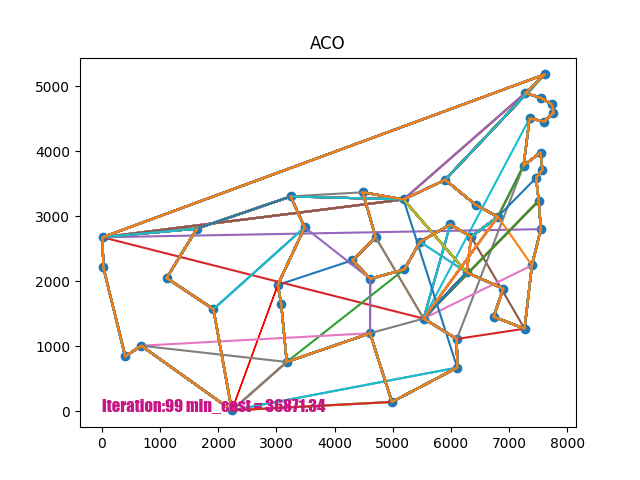
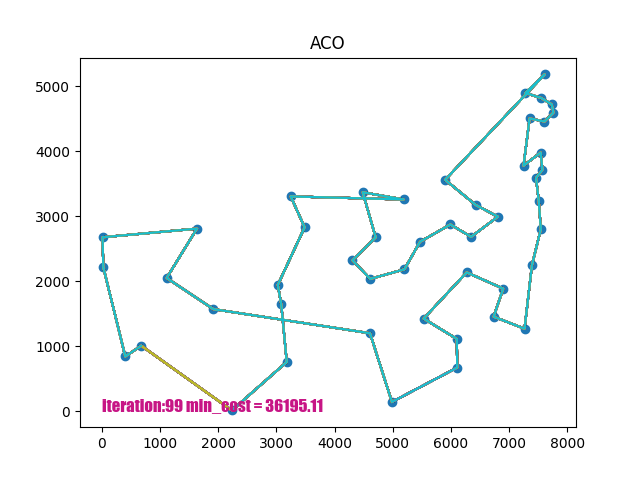
1

diff --git a/ACO.py b/ACO.py
@@ -12,33 +12,33 @@ class ACO(object):
         self.rho = rho
         self.beta = beta
         self.alpha = alpha
-        self.ant_count = ant_count  # x = 10
+        self.ant_count = ant_count
         self.generations = generations
         self.update_strategy = strategy
-        self.points = points  # n = 30
+        self.points = points
         self.distance = distance 
         self.rank = len(distance)   
         self.eta = [[0 if i == j else 1 / distance[i][j] for j in range(self.rank)] for i in
                     range(self.rank)]
 
         self.pheromone_content = [[1 for _ in range(self.rank)] for _ in range(self.rank)]    
-        # for i in range(self.rank):
-        #     self.pheromone_content[i][i]=0
+
+
 
     def initialization(self):
-        # memory vector is used to record the total path of each ant
+
         self.memory_vector = []
         for _ in range(self.ant_count):
-            # random initialize each ant first
+
             self.memory_vector.append([init_pos(self.rank)])
         
 
     def roulette(self,id,pos):
-        # classical roulette method 
+
         possibility = []
         for i in range(self.rank):
             if i in self.memory_vector[id]:
-                # if the ant has been to the point, pass it
+                # if the ant has been to the point, ignore it
                 possibility.append(0)
             else:
                 possibility.append(self.pheromone_content[pos][i]**self.alpha*(self.eta[pos][i]**self.beta))
@@ -47,8 +47,7 @@ class ACO(object):
         return next_pos
 
     def update_pheromone_delta(self,ant_path):
-        # we must update the pheromone content in the same time, instead of one by one, otherwise it may 
-        # affect the possibility of other ants
+
         if self.update_strategy == 0:
             for i in range(self.ant_count):
                 self.pheromone_content[ant_path[i][0]][ant_path[i][1]]+=self.Q
@@ -64,7 +63,7 @@ class ACO(object):
                     self.pheromone_content[self.memory_vector[i][-1]][self.memory_vector[i][0]]+=self.Q/self.distance[self.memory_vector[i][0]][self.memory_vector[i][-1]]
                     self.pheromone_content[self.memory_vector[i][0]][self.memory_vector[i][-1]]+=self.Q/self.distance[self.memory_vector[i][0]][self.memory_vector[i][-1]]
         elif self.update_strategy == 2:
-            # finish one cycle
+
             if len(self.memory_vector[0]) == self.rank:
                 total_cost = []
                 for i in range(self.ant_count):
@@ -81,7 +80,7 @@ class ACO(object):
                     self.pheromone_content[self.memory_vector[i][0]][self.memory_vector[i][-1]]+=delta
                     self.pheromone_content[self.memory_vector[i][-1]][self.memory_vector[i][0]]+=delta
             else:
-                # have not finished one cycle
+
                 pass
         else:
             raise KeyError
@@ -100,7 +99,7 @@ class ACO(object):
             print(f'-----start iteration {iteration+1} of ACO-----')
             self.initialization()
             for steps in range(self.rank-1):
-                # in a new iteration, each ant choose a path, from pos to next_pos
+
                 ant_path = []
                 for i in range(self.ant_count):
                     pos = self.memory_vector[i][-1]
@@ -112,7 +111,7 @@ class ACO(object):
             plt.cla()
             plt.title("ACO")
             cost,path = draw_picture(self.points,self.distance,self.memory_vector,iteration)
-            #print(f'best path cost = {best_cost}')
+
             plt.pause(0.01)
 
         save_best_result(cost,path,self.points)

diff --git a/utils.py b/utils.py
@@ -33,7 +33,6 @@ def calculate_distance(points):
     return distance
     
 def get_next_pos(possibility):
-    #print(possibility)
     n = sum(possibility)
     
     for i in range(len(possibility)):
@@ -105,7 +104,7 @@ def save_best_result(cost,path,points):
         y2 = points[path[i]][1]
         plt.arrow(x1, y1, x2 - x1, y2 - y1, width = 0.05,color='r', length_includes_head=True)
     plt.arrow(x2,y2,points[path[0]][0]-x2,points[path[0]][1]-y2, width = 0.05,color='r', length_includes_head=True)
-    #plt.text(0, 0, f'min_cost = {cost}')
+
     plt.savefig("result.png")
     plt.close()
 

diff --git a/main.py b/main.py
@@ -12,7 +12,7 @@ def default_argument_parser():
     parser.add_argument('--generation', default=100,type=int)
     parser.add_argument('--alpha', default=4.0,type=float)
     parser.add_argument('--beta', default=5.0,type=float)
-    parser.add_argument('--rho', default=0.1,type=float)
+    parser.add_argument('--rho', default=0.3,type=float)
     parser.add_argument('--q', default=100,type=float)
     parser.add_argument('--strategy', default=2,type=int)
     parser.add_argument('--min_x', default=0,type=int) 
